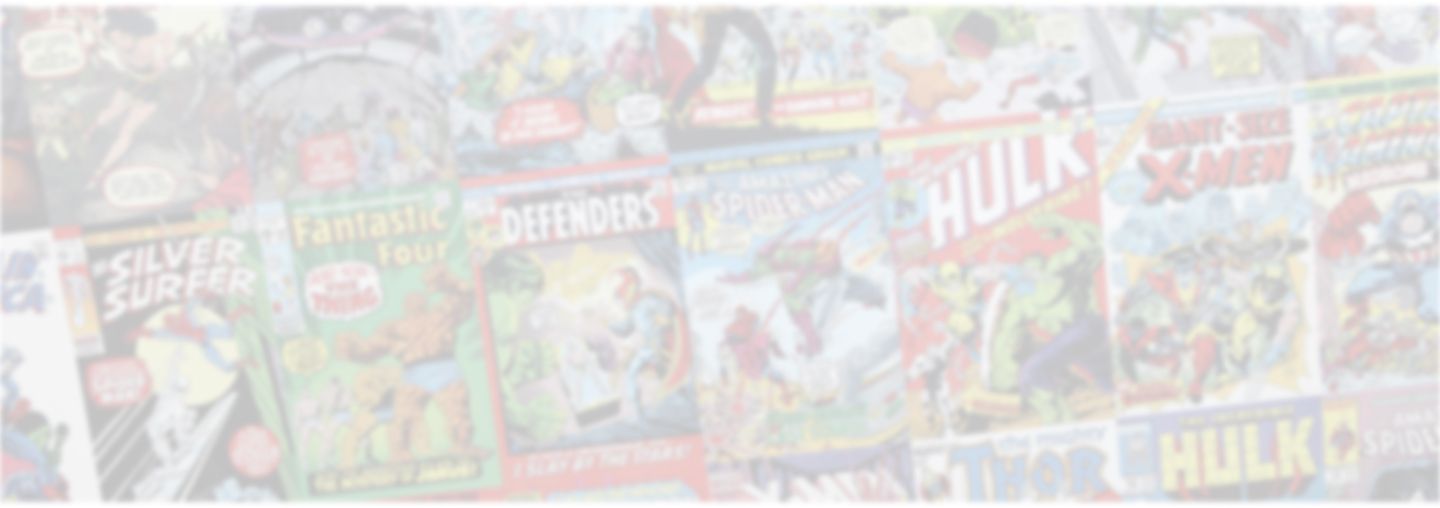
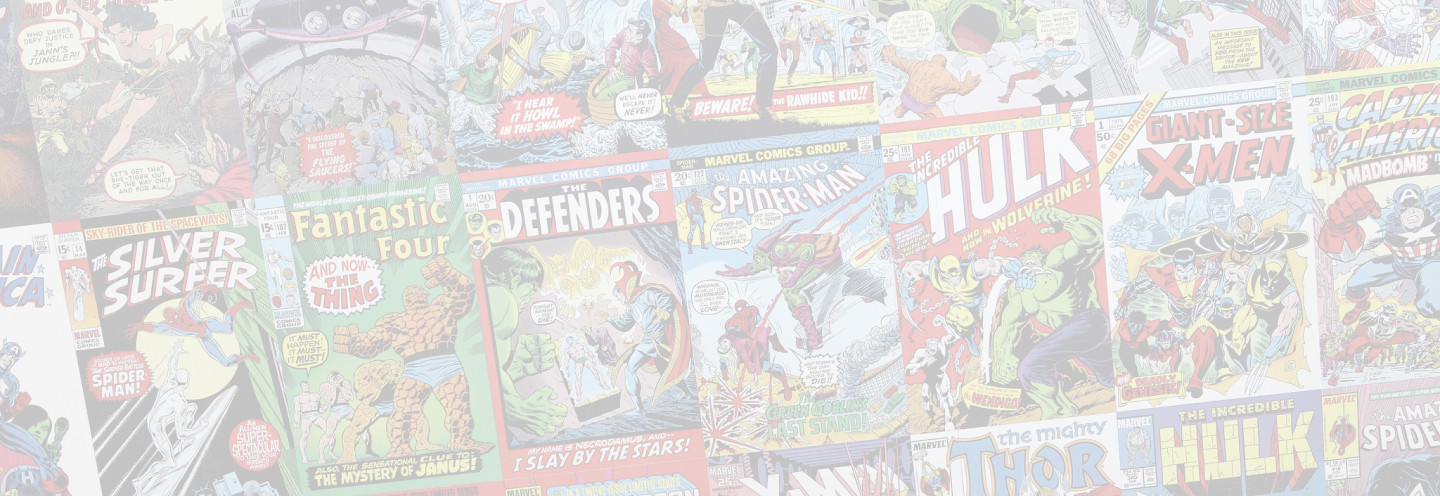
commit

diff --git a/index.html b/index.html
@@ -39,48 +39,54 @@
       <a class="userControl__container userControl--bg-white userControl--txt-black" href="#signup">Signup</a>
     </div>
   </div>
-      <!-- Hero -->
-      <div class="hero selectable">
-        <!-- Hero Left Block -->
-        <div class="heroLeft selectable">
-          <div class="heroLeft__title">All Marvel Comics in one place</div>
-          <div class="heroLeft__txt">Welcome to Super-Heroes Shop specialized in Marvel Comics. You will find in the
-            shelves of our shop all your favorite super heroes: Spider-Man, Iron Man, Avengers, X-men, Fanstastic 4...
+  <!-- Hero -->
+  <div class="hero selectable">
+    <div class="hero__background-image"></div>
+    <div class="hero__container">
+      <!-- Hero Left Block -->
+      <div class="heroLeft selectable">
+        <div class="heroLeft__title">All Marvel Comics in one place</div>
+        <div class="heroLeft__txt">Welcome to Super-Heroes Shop specialized in Marvel Comics. You will find in the
+          shelves of our shop all your favorite super heroes: Spider-Man, Iron Man, Avengers, X-men, Fanstastic 4...
+        </div>
+        <div class="search">
+          <input type="search" id="search" placeholder="Find commics...">
+          <div class="search__img"><img class="search__icon" src="img/search.png" alt="search"></div>
+        </div>
+        <div class="heroLeft__citation">
+          <div class="citation__message">“With great power comes great responsibility”</div>
+          <div class="citation__author">Benjamin Parker (aka Uncle Ben)</div>
+        </div>
+      </div>
+      <!-- Hero Right Block -->
+      <div class="heroRight selectable">
+        <!-- Slider -->
+        <div class="slider selectable">
+          <div class="slider__container">
+            <div class="slider__img">
+              <img id="img1" src="img/img_slider1.png" alt="Avengers Univers">
+            </div>
+            <div class="slider__info">
+              <div class="slider__title">Avengers Univers</div>
+              <div class="slider__description">Dernier round pour déterminer qui parmi les Avengers sera le nouvel hôte
+                du Phénix, dans les deux derniers chapitres de la saga Voici le Phénix ! Et un Donald Blake devenu
+                fouaffronte Jane Foster, son ancien amour, devenue Valkyrie !</div>
+              <a class="slider__details userControl--bg-red userControl--txt-white userControl--shadow"
+                href="#seedetail">See details</a>
+            </div>
           </div>
-          <div class="search">
-            <input type="search" id="search" placeholder="Find commics...">
-            <div class="search__img"><img class="search__icon" src="img/search.png" alt="search"></div>
-          </div>
-          <div class="heroLeft__citation">
-            <div class="citation__message">“With great power comes great responsibility”</div>
-            <div class="citation__author">Benjamin Parker (aka Uncle Ben)</div>
+          <div class="slider__buttons">
+            <a class="buttons__item" href="#1"><img src="img/b_active.png" alt=""></a>
+            <a class="buttons__item" href="#2"><img src="img/b_inactive.png" alt=""></a>
+            <a class="buttons__item" href="#3"><img src="img/b_inactive.png" alt=""></a>
+            <a class="buttons__item" href="#4"><img src="img/b_inactive.png" alt=""></a>
+            <a class="buttons__item" href="#5"><img src="img/b_inactive.png" alt=""></a>
           </div>
         </div>
-        <!-- Hero Right Block -->
-        <div class="heroRight selectable">
-          <!-- Slider -->
-          <div class="slider selectable">
-            <div class="slider__container">
-              <div class="slider__img">
-                <img id="img1" src="img/img_slider1.png" alt="Avengers Univers">
-              </div>
-              <div class="slider__info">
-                <div class="slider__title">Avengers Univers</div>
-                <div class="slider__description">Dernier round pour déterminer qui parmi les Avengers sera le nouvel hôte du Phénix, dans les deux derniers chapitres de la saga Voici le Phénix ! Et un Donald Blake devenu fouaffronte Jane Foster, son ancien amour, devenue Valkyrie !</div>
-                <a class="slider__details userControl--bg-red userControl--txt-white userControl--shadow" href="#seedetail">See details</a>
-              </div>
-            </div>
-            <div class="slider__buttons">
-              <a class="buttons__item" href="#1"><img src="img/b_active.png" alt=""></a>
-              <a class="buttons__item" href="#2"><img src="img/b_inactive.png" alt=""></a>
-              <a class="buttons__item" href="#3"><img src="img/b_inactive.png" alt=""></a>
-              <a class="buttons__item" href="#4"><img src="img/b_inactive.png" alt=""></a>
-              <a class="buttons__item" href="#5"><img src="img/b_inactive.png" alt=""></a>
-            </div>
-          </div>
+      </div>
+    </div>
+  </div> <!-- END Hero -->
 
-        </div>
-      </div> <!-- END Hero -->
   <!-- Portfolio -->
   <!--<div class="profileInfo button--shadow selectable">
     <div class="profileInfo__image"><img src="img/avatar.png" alt="user"></div>

diff --git a/style.css b/style.css
@@ -190,14 +190,26 @@ a {
 
 /* Hero */
 .hero {
-  display: flex;
-  justify-content: space-between;
   height: 496px;
   width: 100%;
-  padding: 48px 100px;
+  background-color: #000;
+}
+
+.hero__background-image {
+  position: absolute;
+  top: 0;
+  left: 0;
+  width: 100%;
+  height: 100%;
   background-image: url("img/bg_hero.jpg");
-  background-color: rgba(0, 0, 0, 0.75);
   filter: blur(6px);
+  opacity: 0.25;
+}
+
+.hero__container {
+  display: flex;
+  justify-content: space-between;
+  padding: 48px 100px;
 }
 
 .heroLeft {

diff --git a/css/style.css b/css/style.css
@@ -190,18 +190,27 @@ a {
 
 /* Hero */
 .hero {
+  height: 496px;
+  width: 100%;
+  background-color: #000;
+}
+
+.hero__background-image {
+  position: absolute;
+  top: 0;
+  left: 0;
+  width: 100%;
+  height: 100%;
   background-image: url("img/bg_hero.jpg");
+  filter: blur(6px);
+  opacity: 0.25;
 }
 
 .hero__container {
   display: flex;
   justify-content: space-between;
-  height: 496px;
-  width: 100%;
   padding: 48px 100px;
-  background-color: rgba(0, 0, 0, 0.75);
 }
-
 
 .heroLeft {
   display: flex;

diff --git a/tech/tech.html b/tech/tech.html
@@ -47,6 +47,7 @@
 
       <!-- Hero -->
       <div class="hero selectable">
+        <div class="hero__background-image"></div>
         <div class="hero__container">
           <!-- Hero Left Block -->
           <div class="heroLeft selectable">
@@ -89,10 +90,7 @@
               </div>
             </div>
           </div>
-
-
         </div>
-
       </div> <!-- END Hero -->
       <!-- Portfolio -->
       <div class="profileInfo button--shadow selectable">
